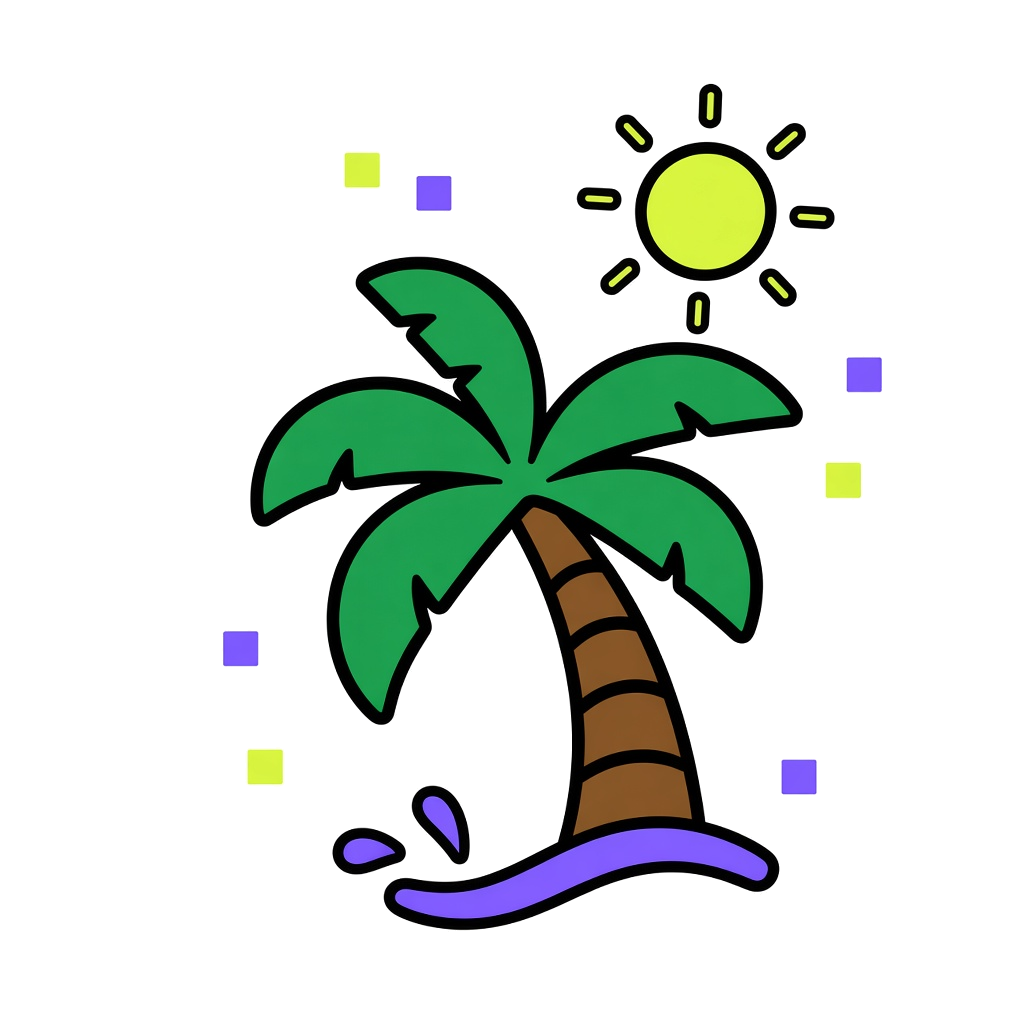
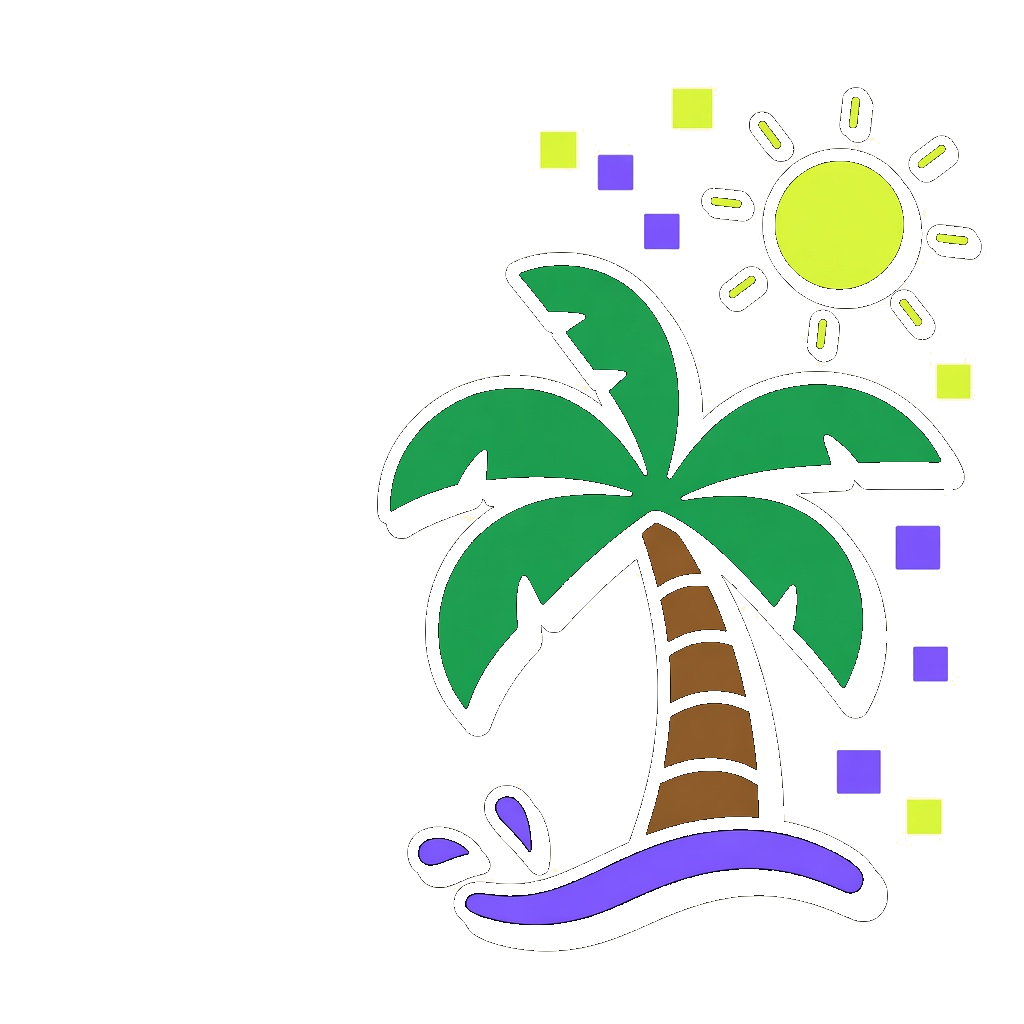
fix(vacations): живее угол тоста — пальма и ITMO-квадратики
Новый стикер без кружка, лайм/фиолет акценты в правом верхнем углу.

diff --git a/frontend/app/assets/main.css b/frontend/app/assets/main.css
@@ -12639,12 +12639,13 @@ button.emp-name--card:hover {
 }
 
 .vac-request-created-toast {
+  --vac-toast-art-w: 118px;
   position: fixed;
   top: 16px;
   right: 16px;
   z-index: 1200;
   box-sizing: border-box;
-  width: min(380px, calc(100vw - 32px));
+  width: min(390px, calc(100vw - 32px));
   margin: 0;
   padding: 0;
   overflow: hidden;
@@ -12667,12 +12668,83 @@ button.emp-name--card:hover {
   }
 }
 
+.vac-request-created-toast__art {
+  position: absolute;
+  top: -6px;
+  right: -4px;
+  width: var(--vac-toast-art-w);
+  height: 112px;
+  pointer-events: none;
+  z-index: 1;
+}
+
+.vac-request-created-toast__palm {
+  position: absolute;
+  right: 2px;
+  bottom: 0;
+  width: 104px;
+  height: 104px;
+  object-fit: contain;
+  object-position: right bottom;
+  border: 0;
+  border-radius: 0;
+  background: transparent;
+  transform: rotate(6deg);
+}
+
+.vac-request-created-toast__sq {
+  position: absolute;
+  box-sizing: border-box;
+  border: 2px solid #1a1a1a;
+  border-radius: 3px;
+  z-index: 0;
+}
+
+.vac-request-created-toast__sq--lime {
+  background: #ddf365;
+}
+
+.vac-request-created-toast__sq--purple {
+  background: #7451f4;
+}
+
+.vac-request-created-toast__sq--a {
+  top: 10px;
+  right: 78px;
+  width: 14px;
+  height: 14px;
+  transform: rotate(-12deg);
+}
+
+.vac-request-created-toast__sq--b {
+  top: 4px;
+  right: 18px;
+  width: 11px;
+  height: 11px;
+  transform: rotate(18deg);
+}
+
+.vac-request-created-toast__sq--c {
+  top: 36px;
+  right: 6px;
+  width: 9px;
+  height: 9px;
+  transform: rotate(-8deg);
+}
+
+.vac-request-created-toast__sq--d {
+  top: 58px;
+  right: 88px;
+  width: 12px;
+  height: 12px;
+  transform: rotate(10deg);
+}
+
 .vac-request-created-toast__main {
-  display: grid;
-  grid-template-columns: minmax(0, 1fr) auto;
-  gap: 12px;
-  align-items: center;
-  padding: 16px 40px 14px 16px;
+  position: relative;
+  z-index: 2;
+  display: block;
+  padding: 22px calc(var(--vac-toast-art-w) - 8px) 16px 36px;
 }
 
 .vac-request-created-toast__copy {
@@ -12680,10 +12752,10 @@ button.emp-name--card:hover {
 }
 
 .vac-request-created-toast__title {
-  margin: 0 0 6px;
+  margin: 0 0 8px;
   font-size: 1.05rem;
   font-weight: 700;
-  line-height: 1.2;
+  line-height: 1.25;
   letter-spacing: -0.01em;
 }
 
@@ -12695,18 +12767,9 @@ button.emp-name--card:hover {
   color: #4a4a4a;
 }
 
-.vac-request-created-toast__palm {
-  width: 72px;
-  height: 72px;
-  object-fit: contain;
-  flex-shrink: 0;
-  /* стикер без кружка и рамки */
-  border: 0;
-  border-radius: 0;
-  background: transparent;
-}
-
 .vac-request-created-toast__warn {
+  position: relative;
+  z-index: 2;
   display: flex;
   align-items: flex-start;
   gap: 8px;
@@ -12741,8 +12804,8 @@ button.emp-name--card:hover {
 .vac-request-created-toast__close {
   position: absolute;
   top: 8px;
-  right: 10px;
-  z-index: 1;
+  left: 8px;
+  z-index: 3;
   width: 28px;
   height: 28px;
   padding: 0;

diff --git a/frontend/app/components/EmployeeVacationPanel.vue b/frontend/app/components/EmployeeVacationPanel.vue
@@ -94,18 +94,24 @@
         >
           ×
         </button>
+        <div class="vac-request-created-toast__art" aria-hidden="true">
+          <span class="vac-request-created-toast__sq vac-request-created-toast__sq--lime vac-request-created-toast__sq--a" />
+          <span class="vac-request-created-toast__sq vac-request-created-toast__sq--purple vac-request-created-toast__sq--b" />
+          <span class="vac-request-created-toast__sq vac-request-created-toast__sq--lime vac-request-created-toast__sq--c" />
+          <span class="vac-request-created-toast__sq vac-request-created-toast__sq--purple vac-request-created-toast__sq--d" />
+          <img
+            class="vac-request-created-toast__palm"
+            src="/images/vacations/request-created-palm.png?v=4"
+            alt=""
+            width="110"
+            height="110"
+          />
+        </div>
         <div class="vac-request-created-toast__main">
           <div class="vac-request-created-toast__copy">
             <p class="vac-request-created-toast__title">Заявка успешно создана</p>
             <p class="vac-request-created-toast__route">{{ requestCreatedToast.route }}</p>
           </div>
-          <img
-            class="vac-request-created-toast__palm"
-            src="/images/vacations/request-created-palm.png?v=3"
-            alt=""
-            width="72"
-            height="72"
-          />
         </div>
         <div class="vac-request-created-toast__warn">
           <span class="vac-request-created-toast__warn-badge" aria-hidden="true">●</span>
